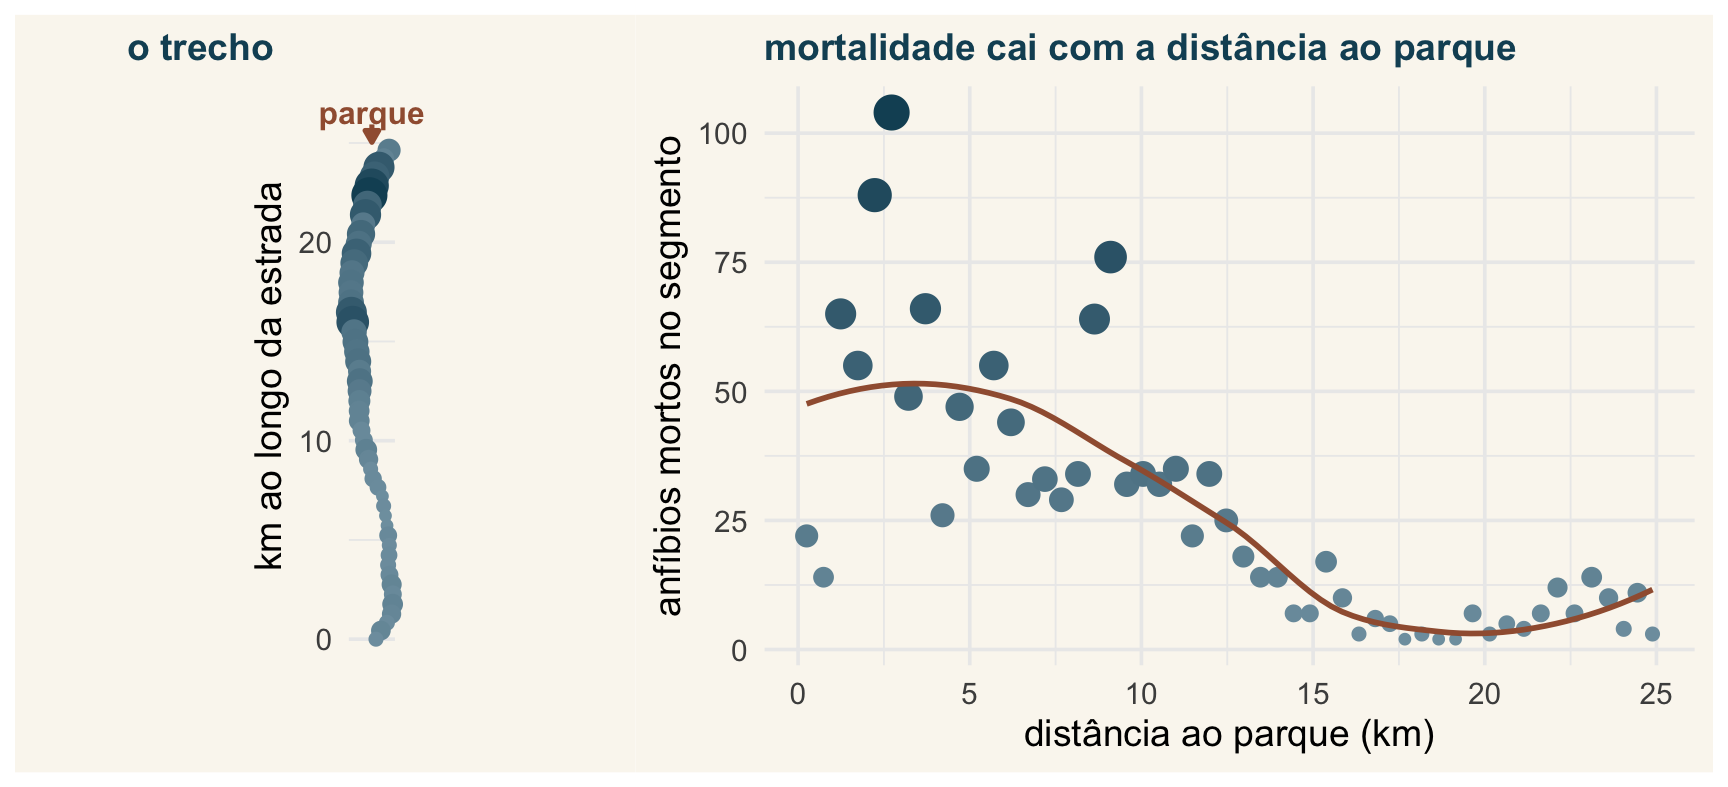
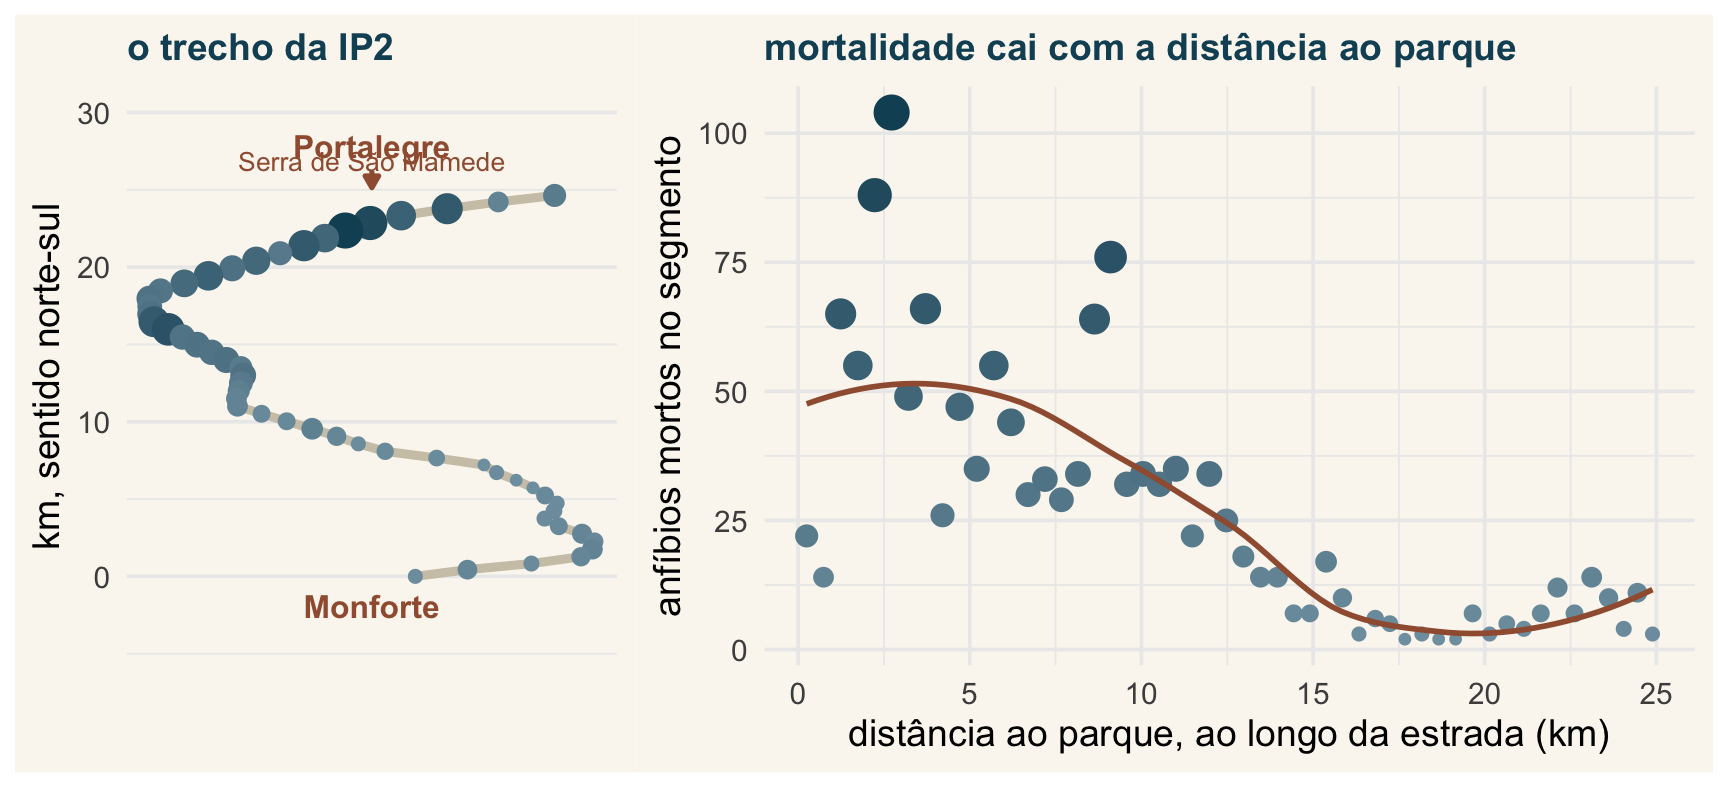
Rerender do site

diff --git a/docs/slides/e01.html b/docs/slides/e01.html
@@ -331,7 +331,7 @@ Diogo B. Provete
 </div>
 </div>
 <div class="nota">
-<p>Dados de Zuur, Ieno &amp; Smith, usados em <em>Mixed Effects Models and Extensions in Ecology with R</em> (2009). Eles nos acompanham a semana inteira.</p>
+<p>Anfíbios atropelados na estrada IP2, sul de Portugal, no cap. 16 de Zuur, Mira, Carvalho, Ieno, Saveliev, Smith &amp; Walker (2009), <em>Mixed Effects Models and Extensions in Ecology with R</em>, p.&nbsp;383–397 (<a href="https://doi.org/10.1007/978-0-387-87458-6_16">doi:10.1007/978-0-387-87458-6_16</a>). Eles nos acompanham a semana inteira.</p>
 </div>
 </section>
 <section id="de-onde-vêm-esses-números" class="slide level2 smaller">
@@ -345,16 +345,28 @@ Diogo B. Provete
 </div>
 </div>
 </div>
-<p>Cada ponto é um segmento de <strong>500 m</strong> de uma mesma estrada, 52 deles ao longo de 25,5 km. A cor e o tamanho são a contagem de anfíbios mortos.</p>
+<p>Cada ponto é o meio de um segmento de <strong>500 m</strong> da IP2, entre Portalegre e Monforte: 52 segmentos cobrindo 25,5 km. A cor e o tamanho são a contagem de anfíbios mortos.</p>
+</section>
+<section id="como-esses-números-foram-feitos" class="slide level2 smaller">
+<h2>Como esses números foram feitos</h2>
+<ul>
+<li>Um trecho de <strong>27 km</strong> da IP2, no sul de Portugal: duas faixas, menos de 10 000 veículos por dia, cortando <em>montado</em> de sobreiro (<em>Quercus suber</em>) e azinheira (<em>Q. rotundifolia</em>) e campo aberto.</li>
+<li>Percorrido <strong>de carro, a 10–20 km/h</strong>, pelo acostamento, <strong>a cada duas semanas, de março de 1995 a março de 1997</strong>.</li>
+<li>Cada carcaça identificada até espécie quando possível e <strong>retirada da estrada</strong>, para não ser contada de novo na quinzena seguinte.</li>
+<li>A estrada dividida em segmentos de 500 m, e cada animal atribuído ao <strong>ponto médio</strong> do seu segmento.</li>
+</ul>
+<div class="nota">
+<p>Dois anos de campo, quinzena após quinzena, condensados em 52 linhas e uma coluna chamada <code>TOT.N</code>. Vale lembrar disso na hora de reclamar do tamanho da amostra.</p>
+</div>
 </section>
 <section id="duas-coisas-que-o-mapa-já-entrega" class="slide level2 smaller">
 <h2>Duas coisas que o mapa já entrega</h2>
 <div class="definicao">
-<p><strong>Um gradiente.</strong> A mortalidade cai com a distância ao parque (<span class="math inline">\(r = -0{,}75\)</span>). Essa é a pergunta do Encontro 5, e o mapa mostra que ela é geográfica antes de ser estatística.</p>
+<p><strong>Um gradiente.</strong> A mortalidade cai com a distância ao parque natural da Serra de São Mamede (<span class="math inline">\(r = -0{,}75\)</span>) — uma serra mais úmida e chuvosa que a planície em volta, ou seja, a variável é um <strong>proxy</strong> de umidade. Essa é a pergunta do Encontro 5, e o mapa mostra que ela é geográfica antes de ser estatística.</p>
 <p><strong>Um problema.</strong> Segmentos vizinhos distam 500 m: eles não são réplicas independentes. É o assunto do Encontro 7, e está embutido no desenho da coleta — nenhuma análise conserta isso depois.</p>
 </div>
 <div class="nota">
-<p>As coordenadas do arquivo estão em metros, num sistema projetado que a fonte não documenta. Por isso o mapa é desenhado no sistema do próprio conjunto, com escala 1:1: a geometria é fiel e nenhuma afirmação é feita sobre onde isso fica no globo.</p>
+<p>O eixo leste–oeste do mapa está exagerado de propósito: o trecho tem 2 km de largura para 25 de comprimento e, em escala 1:1, vira uma linha reta. Zuur et al.&nbsp;distorcem o mesmo eixo, pela mesma razão, na Fig. 16.6 do capítulo.</p>
 </div>
 </section>
 <section id="uma-coisa-que-vocês-já-viram" class="slide level2">
@@ -368,7 +380,7 @@ Diogo B. Provete
 </div>
 </div>
 </div>
-<p>Contagem. Só inteiros não negativos. Variância cresce com a média. Cauda longa à direita.</p>
+<p>Contagem. Só inteiros não negativos. Cauda longa à direita. E a variância cresce com a média: aqui a média é <strong>25,9</strong> e a variância é <strong>589,3</strong>, quase 23 vezes maior. Guardem essa desproporção para o Encontro 6 — parte dela some quando as covariáveis entram no modelo, mas não toda.</p>
 <p><strong>Uma regressão linear comum é apropriada aqui?</strong> Guardem a resposta.</p>
 </section>
 <section class="slide level2">
@@ -442,8 +454,8 @@ Diogo B. Provete
 <h2>Por que um ciclo e não uma lista</h2>
 <div class="cell">
 <div class="cell-output-display">
-<div id="htmlwidget-cc6bb17d3a7a7d86353b" style="width:672px;height:150px;" class="grViz html-widget"></div>
-<script type="application/json" data-for="htmlwidget-cc6bb17d3a7a7d86353b">{"x":{"diagram":"\ndigraph ppdac {\n  graph [rankdir = LR, bgcolor = \"transparent\", nodesep = 0.40, ranksep = 0.85,\n         fontname = \"Helvetica\"]\n  node  [fontname = \"Helvetica\", fontsize = 18, style = \"filled,rounded\",\n         shape = box, penwidth = 0, margin = \"0.24,0.14\", fontcolor = \"white\"]\n  edge  [penwidth = 3.0, arrowsize = 1.1, color = \"#8a8172\"]\n\n  P1 [label = \"Problema\",  fillcolor = \"#144f64\"]\n  P2 [label = \"Plano\",     fillcolor = \"#1c6e8c\"]\n  D  [label = \"Dados\",     fillcolor = \"#527238\"]\n  A  [label = \"Análise\",   fillcolor = \"#96661f\"]\n  C  [label = \"Conclusão\", fillcolor = \"#a15e3f\"]\n\n  P1 -> P2 -> D -> A -> C\n\n  A -> D  [style = dashed, penwidth = 2.4, color = \"#527238\",\n           constraint = false, arrowsize = 1.0]\n  C -> P1 [style = dashed, penwidth = 2.4, color = \"#a15e3f\",\n           constraint = false, arrowsize = 1.0]\n}\n","config":{"engine":"dot","options":null}},"evals":[],"jsHooks":[]}</script>
+<div id="htmlwidget-6f6d6620c2871b580441" style="width:672px;height:150px;" class="grViz html-widget"></div>
+<script type="application/json" data-for="htmlwidget-6f6d6620c2871b580441">{"x":{"diagram":"\ndigraph ppdac {\n  graph [rankdir = LR, bgcolor = \"transparent\", nodesep = 0.40, ranksep = 0.85,\n         fontname = \"Helvetica\"]\n  node  [fontname = \"Helvetica\", fontsize = 18, style = \"filled,rounded\",\n         shape = box, penwidth = 0, margin = \"0.24,0.14\", fontcolor = \"white\"]\n  edge  [penwidth = 3.0, arrowsize = 1.1, color = \"#8a8172\"]\n\n  P1 [label = \"Problema\",  fillcolor = \"#144f64\"]\n  P2 [label = \"Plano\",     fillcolor = \"#1c6e8c\"]\n  D  [label = \"Dados\",     fillcolor = \"#527238\"]\n  A  [label = \"Análise\",   fillcolor = \"#96661f\"]\n  C  [label = \"Conclusão\", fillcolor = \"#a15e3f\"]\n\n  P1 -> P2 -> D -> A -> C\n\n  A -> D  [style = dashed, penwidth = 2.4, color = \"#527238\",\n           constraint = false, arrowsize = 1.0]\n  C -> P1 [style = dashed, penwidth = 2.4, color = \"#a15e3f\",\n           constraint = false, arrowsize = 1.0]\n}\n","config":{"engine":"dot","options":null}},"evals":[],"jsHooks":[]}</script>
 </div>
 </div>
 <p>As setas pontilhadas são o ponto: a análise revela problemas nos dados, e a conclusão quase sempre reformula o problema. <strong>Isso é legítimo</strong> — o que não é legítimo é apagar o percurso e apresentar a última volta do ciclo como se tivesse sido a primeira.</p>

diff --git a/docs/encontros/e01-eda-reprodutibilidade/index.html b/docs/encontros/e01-eda-reprodutibilidade/index.html
@@ -200,7 +200,7 @@ ul.task-list li input[type="checkbox"] {
 <section id="dados" class="level2">
 <h2 class="anchored" data-anchor-id="dados">Dados</h2>
 <ul>
-<li><a href="../../dados/RoadKills.txt"><code>RoadKills.txt</code></a> — anfíbios atropelados em 52 segmentos de 500 m de uma mesma estrada, ao longo de 25,5 km, em Portugal (Zuur et al.&nbsp;2009). As colunas <code>X</code> e <code>Y</code> dão a posição de cada segmento e <code>D.PARK</code> a distância ao parque, que vai de 250 m a 24,9 km. É o conjunto do <em>productive failure</em> que abre a aula, e volta nos Encontros 5, 6 e 9.</li>
+<li><a href="../../dados/RoadKills.txt"><code>RoadKills.txt</code></a> — anfíbios atropelados em 52 segmentos de 500 m da estrada IP2, entre Portalegre e Monforte, no sul de Portugal. A estrada foi percorrida de carro a 10–20 km/h, a cada duas semanas, de março de 1995 a março de 1997, e cada carcaça foi retirada da pista para não ser contada duas vezes. As colunas <code>X</code> e <code>Y</code> dão a posição de cada segmento e <code>D.PARK</code> a distância, ao longo da estrada, ao parque natural da Serra de São Mamede, de 250 m a 24,9 km — uma serra mais úmida que a planície em volta, e portanto um <em>proxy</em> de umidade. Fonte: Zuur, Mira, Carvalho, Ieno, Saveliev, Smith &amp; Walker (2009), cap. 16 de <em>Mixed Effects Models and Extensions in Ecology with R</em>, p.&nbsp;383–397 (<a href="https://doi.org/10.1007/978-0-387-87458-6_16">doi:10.1007/978-0-387-87458-6_16</a>). É o conjunto do <em>productive failure</em> que abre a aula, e volta nos Encontros 5, 6 e 9.</li>
 <li><a href="../../dados/dados_com_outliers_e_faltantes.csv"><code>dados_com_outliers_e_faltantes.csv</code></a> — passo 1, o gráfico de Cleveland.</li>
 <li><a href="../../dados/RIKZ.txt"><code>RIKZ.txt</code></a> — riqueza de macrofauna em 9 praias holandesas (Zuur et al.&nbsp;2009); passo 2, heterogeneidade entre grupos. Volta nos Encontros 7 e 8.</li>
 </ul>

diff --git a/docs/encontros/e05-glm-i/index.html b/docs/encontros/e05-glm-i/index.html
@@ -337,7 +337,7 @@ window.Quarto = {
 <section id="dados" class="level2">
 <h2 class="anchored" data-anchor-id="dados">Dados</h2>
 <ul>
-<li><a href="../../dados/RoadKills.txt"><code>RoadKills.txt</code></a> — anfíbios atropelados em 52 sítios em Portugal (Zuur et al.&nbsp;2009).</li>
+<li><a href="../../dados/RoadKills.txt"><code>RoadKills.txt</code></a> — anfíbios atropelados em 52 segmentos da IP2, sul de Portugal (Zuur et al.&nbsp;2009, cap. 16, <a href="https://doi.org/10.1007/978-0-387-87458-6_16">doi:10.1007/978-0-387-87458-6_16</a>); o Encontro 1 descreve a coleta.</li>
 <li><a href="../../dados/UV.csv"><code>UV.csv</code></a> — resposta binomial, contagem de células.</li>
 <li><a href="../../dados/camila_cauda_lagartos.txt"><code>camila_cauda_lagartos.txt</code></a> — 223 lagartos <em>Coleodactylus meridionalis</em>: sexo, CRC, comprimento da cauda intacta e da regenerada, e se o indivíduo já sofreu autotomia. Aqui, <code>Tail_state</code> é a resposta binária do bloco 2 — atenção: vale 1 quando a cauda está <strong>intacta</strong>, e nos slides ela é recodificada para <code>cauda_perdida = 1 - Tail_state</code>.</li>
 <li><a href="../../dados/Planilha_Pentastomida.txt"><code>Planilha_Pentastomida.txt</code></a> — contagens de <em>Raillietiella mottae</em> em 195 lagartos; muitos zeros. É o conjunto do <a href="https://analises-ecologicas.com/cap8">capítulo 8 de <em>Análises Ecológicas no R</em></a>, e volta nos Encontros 5 e 6.</li>

diff --git a/docs/index.html b/docs/index.html
@@ -287,7 +287,7 @@ Conteúdo
 </thead>
 <tbody class="list">
 
-<tr data-index="0" data-listing-file-modified-sort="1789950991297" data-listing-reading-time-sort="3" data-listing-word-count-sort="458" data-listing-title-sort="E1 — EDA, reprodutibilidade e literacia em IA" data-listing-filename-sort="index.qmd">
+<tr data-index="0" data-listing-file-modified-sort="1789955430467" data-listing-reading-time-sort="3" data-listing-word-count-sort="545" data-listing-title-sort="E1 — EDA, reprodutibilidade e literacia em IA" data-listing-filename-sort="index.qmd">
 <td>
 <span class="listing-order">1</span>
 </td>
@@ -339,7 +339,7 @@ Conteúdo
 
 </tr>
 
-<tr data-index="4" data-listing-file-modified-sort="1789767523466" data-listing-reading-time-sort="7" data-listing-word-count-sort="1210" data-listing-title-sort="E5 — GLM I: verossimilhança, binomial e Poisson" data-listing-filename-sort="index.qmd">
+<tr data-index="4" data-listing-file-modified-sort="1789955430468" data-listing-reading-time-sort="7" data-listing-word-count-sort="1224" data-listing-title-sort="E5 — GLM I: verossimilhança, binomial e Poisson" data-listing-filename-sort="index.qmd">
 <td>
 <span class="listing-order">5</span>
 </td>
